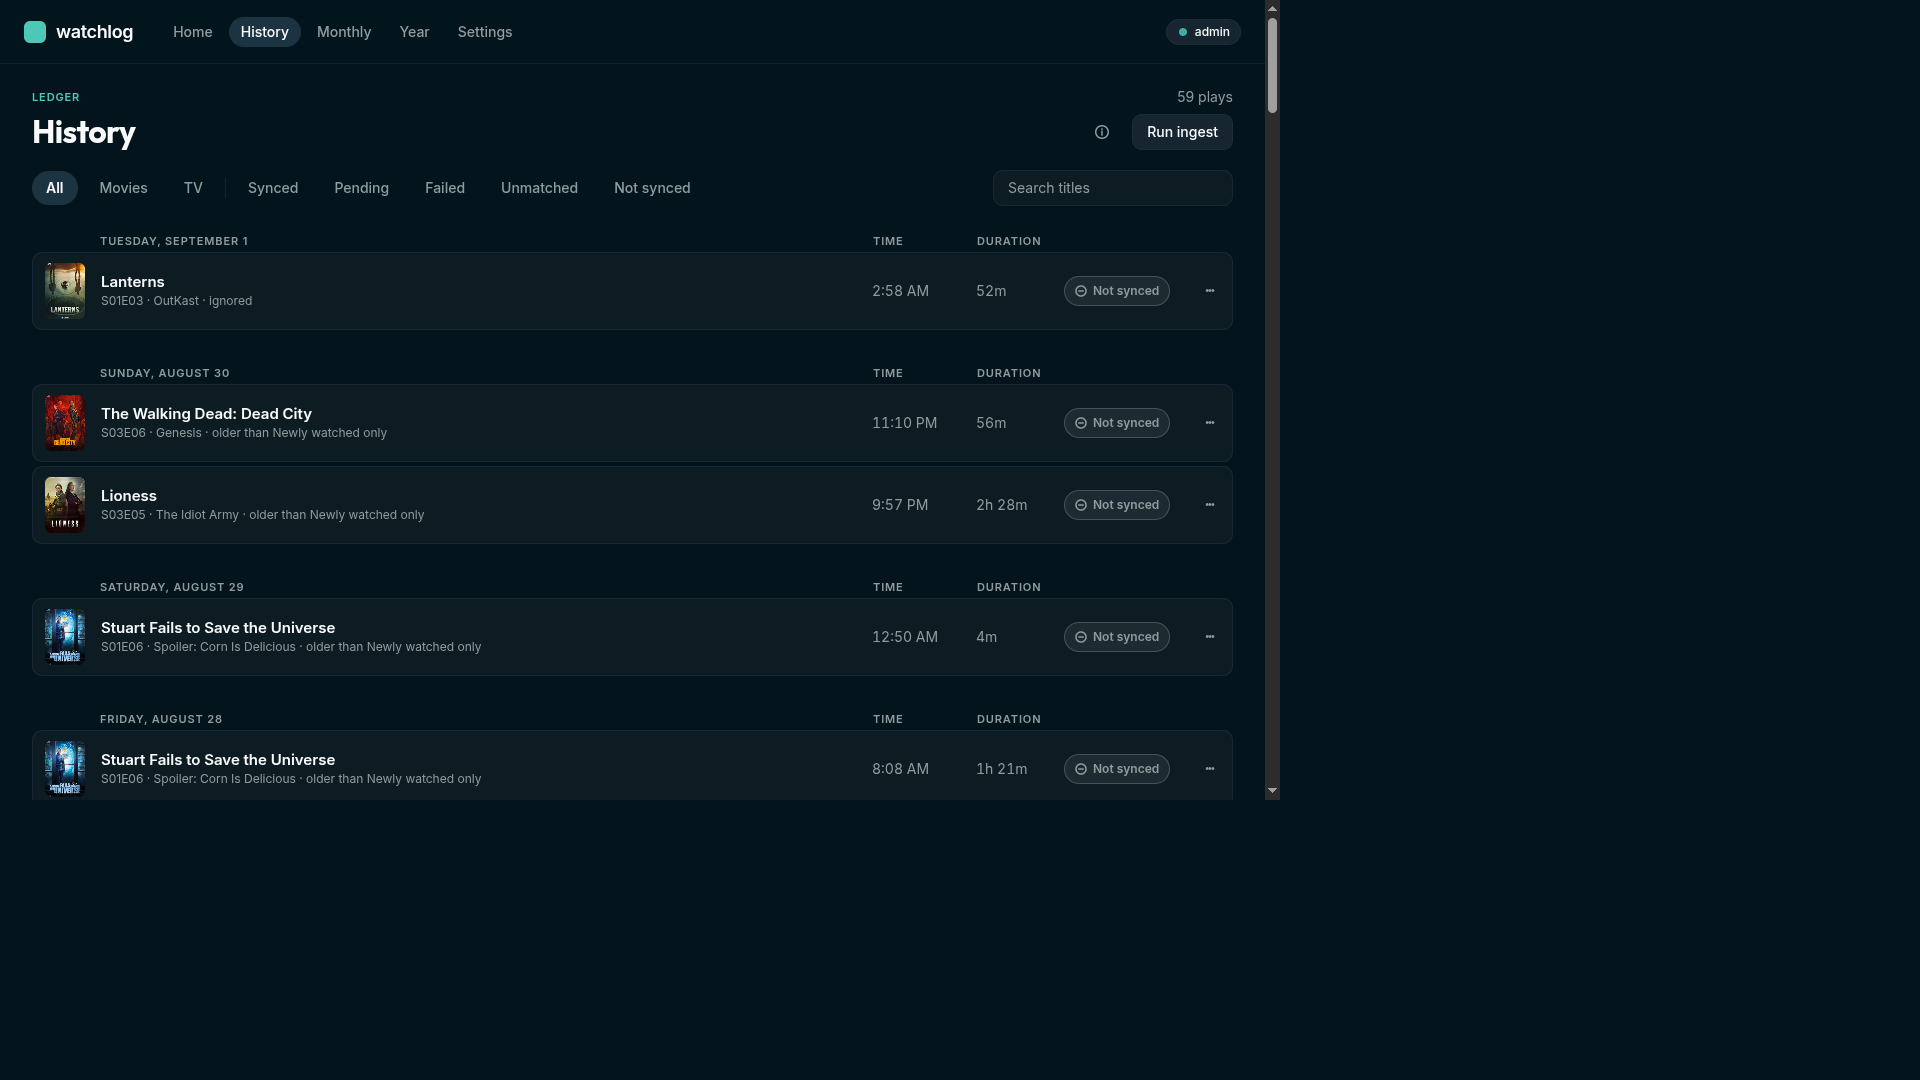
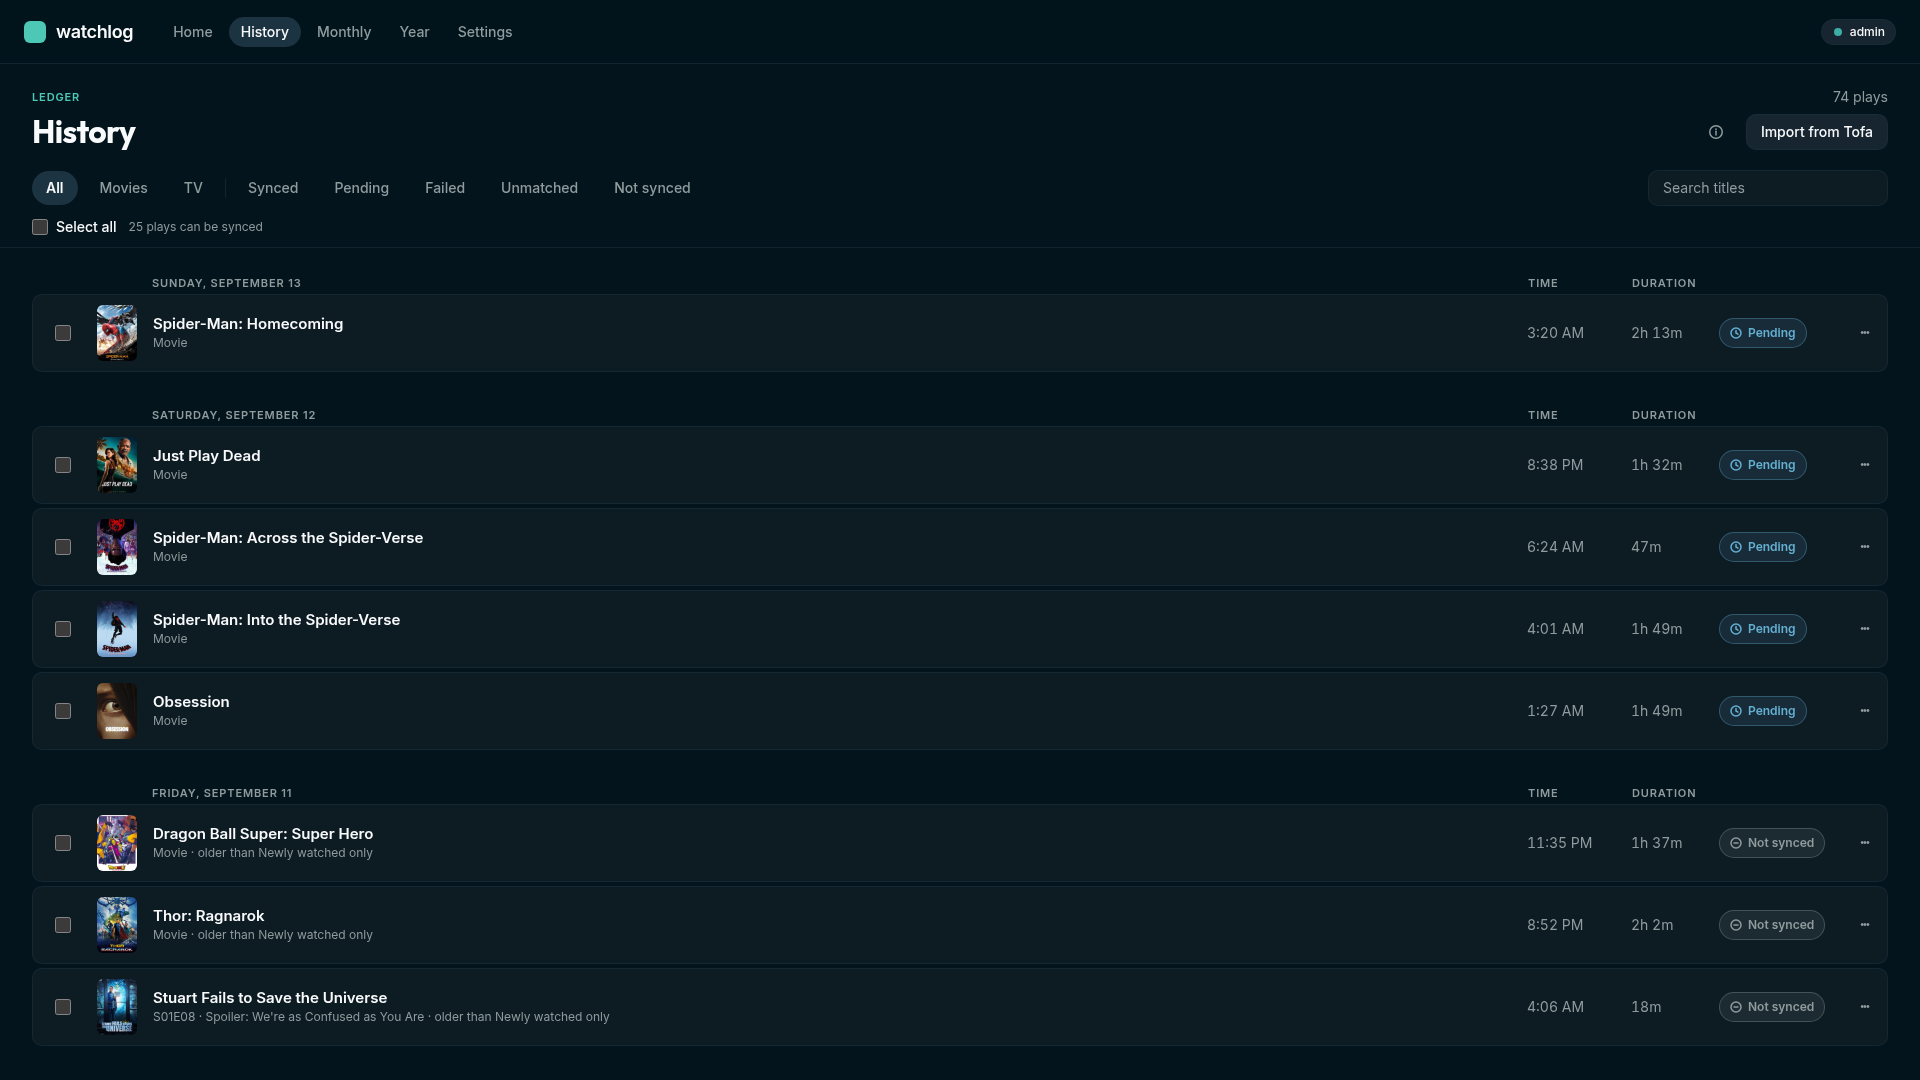
Update the README with current screenshots, accurate features, and a Compose example.

diff --git a/README.md b/README.md
@@ -1,45 +1,80 @@
 # Watchlog
 
-Watchlog is a self-hosted companion for a tofa media server. It records every play, sends the ones that count to Trakt with a real timestamp, and turns that history into monthly and yearly reviews.
+Watchlog is a self-hosted companion for a [tofa](https://tofa.tv) media server. It records every play, syncs the ones that count to [Trakt](https://trakt.tv) with a real timestamp, and turns that history into monthly and yearly reviews.
 
-tofa knows what you watched. Trakt is where a portable history lives. Marking things watched by hand drops the times that make the record worth keeping. Watchlog sits between them: it polls tofa, keeps a local ledger of each play, and syncs only the plays you meant to count.
+tofa knows what you watched. Trakt is where a portable history lives. Marking things watched by hand drops the times that make the record worth keeping. Watchlog sits between them: it polls tofa, keeps a local ledger of each play, and posts to Trakt only when you ask.
 
 It does not play video, browse your library, or write anything back to tofa.
 
-![Home: recently watched and upcoming](docs/screenshots/home.png)
+![Home: pending plays, recently watched, and upcoming](docs/screenshots/home.png)
 
-![History: each unsynced play explains itself](docs/screenshots/history.png)
+![History: the local ledger with multi-select sync](docs/screenshots/history.png)
 
 ![Monthly review](docs/screenshots/monthly.png)
 
+![Year in review](docs/screenshots/year.png)
+
 ## What it does
 
-Ingestion and sync are separate. Every play tofa reports is stored and shows up in history and statistics. Only plays that pass the rules you set are posted to Trakt.
+Ingestion and sync are separate. Every play tofa reports is stored and shows in History. Only plays that meet your rules are queued for Trakt.
 
-A play becomes eligible when it meets the completion threshold, falls inside the current sync window, and can be matched to a movie or episode. Rewatches are separate plays. Partial plays stay in the ledger and are left off the stats unless you turn that on.
+A play becomes eligible when it meets the completion threshold, falls inside the current sync window, and can be matched to a movie or episode. Rewatches are separate plays. Partial plays stay in the ledger.
 
-Before the first backfill, Watchlog compares local plays with history already on Trakt and skips matches, so an existing Trakt account is not filled with duplicates. Timestamps are sent as when the play finished, or from the start time if you prefer that.
+Nothing is posted on a timer. You sync with **Run sync now**, **Sync now** on a row, or **Sync to Trakt** on a History selection. Before sending, Watchlog compares local plays with history already on Trakt and skips matches, so an existing account is not filled with duplicates. Timestamps are sent as when the play finished, or from the start time if you prefer that.
+
+Monthly and yearly reviews are built from Trakt history (with local artwork and provider overlays). History is the local ledger from tofa.
 
 ## Features
 
-**Home.** Connection health for tofa, Trakt, and TMDB, the pending and needs-attention counts, and the last successful sync. Recently watched plays, a preview of the current month, and a list of failed or unmatched items when there is something to fix.
+**Home.** Connection health for tofa, Trakt, and TMDB, pending count, needs attention, and the last successful sync. A pending carousel from the local ledger, recently watched and upcoming from Trakt, a preview of the current month, and failed or unmatched items when something needs a look.
 
-**History.** The full ledger, grouped by day. Filter by date, movies or TV, sync state, and search. Each row shows the title, episode identity, when it was watched, and why it is synced, pending, skipped, failed, or unmatched. From a row you can sync now, retry, ignore, fix a match, or remove the play from Trakt.
+**History.** The full local ledger, grouped by day. Filter by movies or TV, sync state, and title search. Each row shows artwork, title / episode, when it was watched, duration, and why it is pending, synced, not synced, failed, or unmatched. Select plays and **Sync to Trakt**, or use a row menu to sync now, retry, ignore, or remove a play from Trakt. **Import from Tofa** pulls the latest watch history.
 
-**Sync.** Three modes: everything, including a confirmed backfill of older history; newly watched only, from the moment you turn it on; or manual, where nothing posts until you say so. Completion thresholds, ingest schedule, and a reconciliation pass against Trakt are all settings. Ingest pulls from tofa. Reconciliation downloads Trakt history. Neither of those steps posts a play or changes sync status — matching happens when you run a sync.
+**Sync.** Three modes: manual, where nothing posts until you say so; newly watched only, from the moment you turn it on; or everything, including a confirmed backfill of older history. Completion thresholds, an Import from Tofa schedule, an Import from Trakt (reconciliation) schedule, and a match window are all settings. Import from Tofa pulls plays. Import from Trakt downloads Trakt history. Neither step posts a play.
 
-**Monthly review.** Plays, hours, movies versus episodes, and how the month compares with the last one. First play of the month, genre splits, a calendar of active days, and the titles you returned to. Numbers use your timezone. A month with no plays stays empty instead of showing a grid of zeros.
+**Monthly review.** Plays, hours, movies versus episodes, and how the month compares with the last one. First play of the month, genre splits, a calendar of active days, titles you returned to, and JSON/CSV export. Numbers use your timezone.
 
-**Year in review.** The year as twelve months: hours in human terms, busiest stretches, first and last play, and the shows and movies that defined it. The current year is a live preview.
+**Year in review.** Totals, hours by month, first play, longest binge, top shows and movies, and a shareable image. The current year is a live preview.
 
-**Connections.** tofa by API key or device flow, Trakt by your own app and a device-code approval, and a TMDB key for artwork and provider snapshots. Saved credentials stay visible. Test connection waits until that provider is actually authorized.
+**Connections.** tofa by API key or device flow, Trakt by your own app and a device-code approval, and a TMDB key for artwork and provider snapshots. Secrets are never shown again after save.
 
-**Your data.** Timezone, week start, and whether partial plays count. Export history as JSON or CSV, and import a previous export. Clearing sync records, wiping local history, or forgetting a connection each ask you to type the action name, and each one says what it does not touch on Trakt.
+**Your data.** Timezone, week start, and whether partial plays count. Export or import history. Clearing sync records, wiping local history, or forgetting a connection each ask you to type the action name, and each one says what it does not touch on Trakt.
+
+**About.** Version, build, uptime, and whether a newer GitHub release is available. Job history and the audit trail live under Logs.
 
 Watchlog runs as one container with a single volume. SQLite holds the ledger. Secrets are encrypted at rest.
 
-## Published image
+## Run it
 
-The image is [`ghcr.io/dxtrlws/watchlog`](https://github.com/dxtrlws/Tofakt-/pkgs/container/watchlog).
+The image is [`ghcr.io/dxtrlws/watchlog`](https://github.com/dxtrlws/Tofakt-/pkgs/container/watchlog). The package is private, so Portainer and other hosts need a GitHub token with `read:packages` and `repo` before they can pull it. Pass that same token into the container as `WATCHLOG_GITHUB_TOKEN` if you want Settings → About to see new releases.
 
-How to run it is in [`docs/package/README.md`](docs/package/README.md). That file is what the package page shows. This README is for the repository.
+```yaml
+services:
+  watchlog:
+    image: ghcr.io/dxtrlws/watchlog:latest
+    ports:
+      - "9477:9477"
+    environment:
+      TZ: UTC
+      DATABASE_PATH: /data/watchlog.db
+      WATCHLOG_GITHUB_TOKEN: ${WATCHLOG_GITHUB_TOKEN:-}
+      # BASE_URL: https://watchlog.example.com
+      # PUID: "1000"
+      # PGID: "1000"
+    volumes:
+      - watchlog-data:/data
+    restart: unless-stopped
+
+volumes:
+  watchlog-data:
+```
+
+```bash
+docker compose up -d
+```
+
+Open http://localhost:9477 and create the local admin. Connect tofa, Trakt, and TMDB under Settings.
+
+`/data` holds the SQLite database and encryption key. Set `BASE_URL` when Watchlog sits behind a reverse proxy. Optional `PUID` / `PGID` (default `1000`) own that volume.
+
+This repository’s [`docker-compose.yml`](docker-compose.yml) can also build from source. Reverse-proxy notes for Caddy, nginx, and Traefik are in [`docs/DEPLOY.md`](docs/DEPLOY.md). The package page copy lives in [`docs/package/README.md`](docs/package/README.md).
